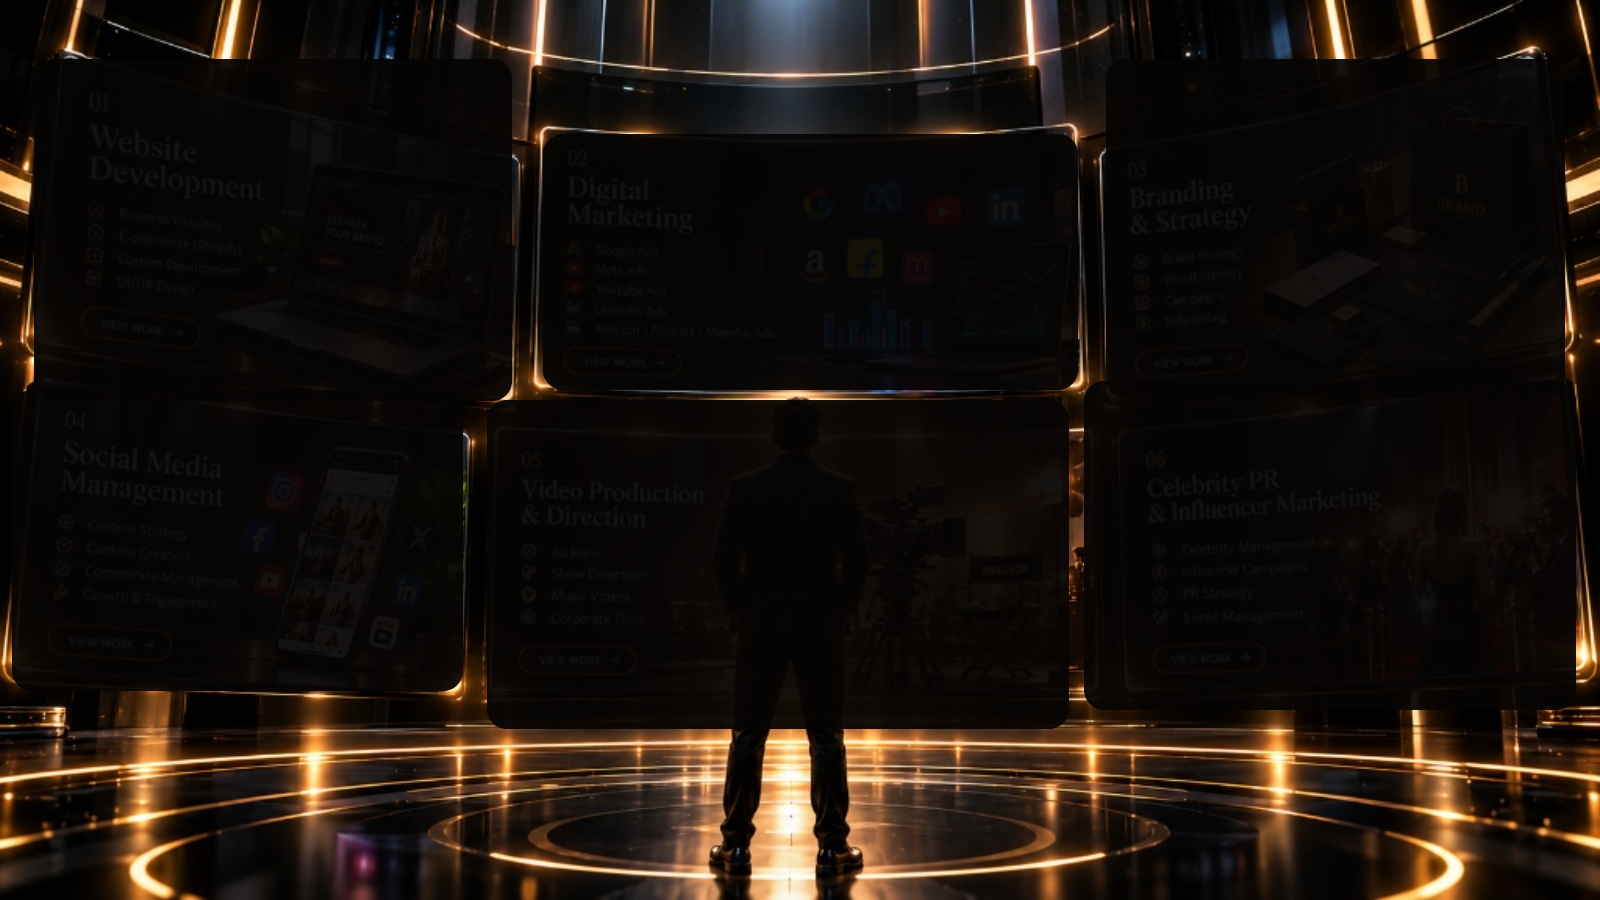
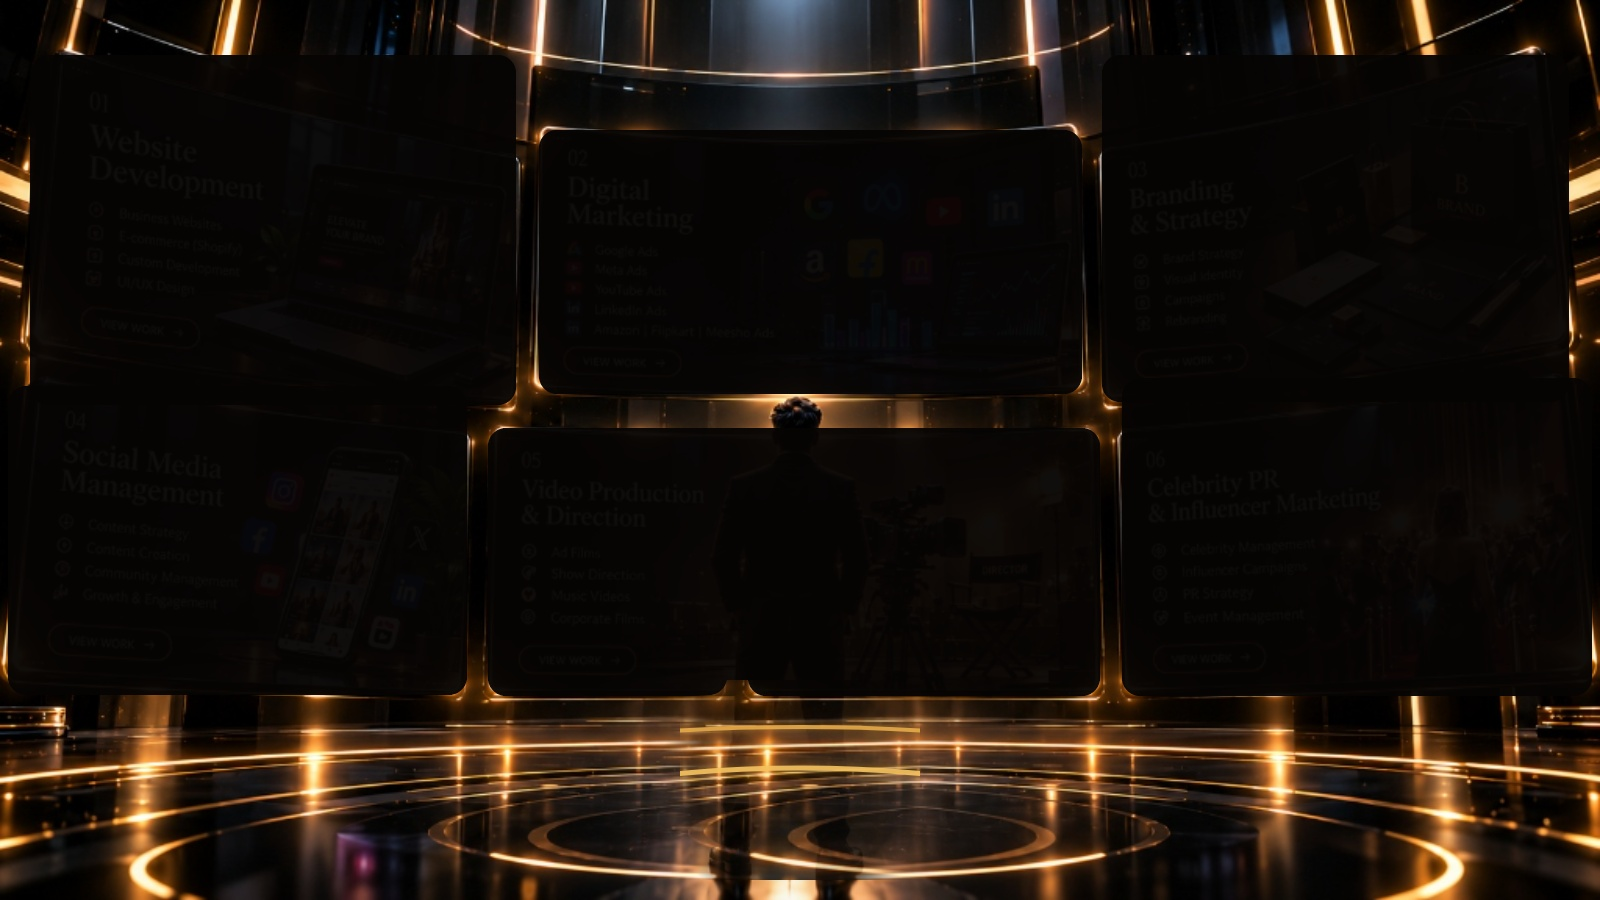
feat(scene4): integrate all 6 transparent service screens and Surjith personal figure

diff --git a/src/scene4/layout4.js b/src/scene4/layout4.js
@@ -23,15 +23,15 @@ export const CARDS = [
     box: [0, 378, 475, 325], depth: 0.25,
     tint: [0.45, 0.35, 0.20] },
   { id: 'p05_video', title: 'Video Production & Direction',
-    box: [475, 388, 606, 353], depth: 0.70,
+    box: [480, 420, 628, 284], depth: 0.70,
     tint: [0.45, 0.35, 0.20] },
   { id: 'p06_pr', title: 'Celebrity PR & Influencer Marketing',
-    box: [1072, 369, 516, 353], depth: 0.25,
+    box: [1114, 370, 486, 334], depth: 0.25,
     tint: [0.45, 0.35, 0.20] },
 ];
 
 // the central figure: crop box in frame px (his lighting is baked in)
-export const PERSON = { x: 710, y: 440, w: 180, h: 420 };
+export const PERSON = { x: 716, y: 410, w: 168, h: 455 };
 
 // the floor's lit ellipses (centre x, centre y, rx, ry) and the overhead ring,
 // used by the live glints the canvas draws over the baked plate

diff --git a/src/styles/projects.css b/src/styles/projects.css
@@ -101,7 +101,16 @@
 }
 
 .gallery__person {
-  display: none;
+  position: absolute;
+  top: 0;
+  left: 0;
+  height: auto;
+  pointer-events: none;
+  user-select: none;
+  opacity: 0;
+  will-change: transform, opacity;
+  transform-origin: 50% 90%;
+  filter: drop-shadow(0 14px 40px rgba(0, 0, 0, 0.75));
 }
 
 /* --------------------------------------------------------------------------
